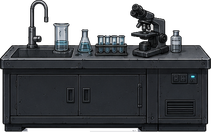
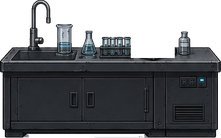
真实性批次二:台面物独立化(电脑/双屏/显微镜)+junk语义minor+爆炸遮挡与场景反馈+审计6条清零
- 对标入侵者2反编译源码(junk_keyboard独立body/maskBits剔玩家/密度摩擦量级表,15条机制入册)
- 台面物erase挖出+独立可推小件:推桌滑翻桌掉中弹飞;湿实验台碰撞顶矫正13px
- minor语义:人穿行/不挡视线扫描锥/不吃贴身推,子弹爆炸照打;泄漏飞瓶复用=根治对子弹隐形,命中即殉爆
- 爆炸:segVsRect遮挡(关门实测全挡)/掀家具41px/breakable折伤/decor抖动/震屏900px距离衰减
- 文件柜可推化并挪更衣室(原位36px全嵌=审计拦下的NaN雷);出生双审计清零

diff --git a/src/systems/Explosives.js b/src/systems/Explosives.js
@@ -5,6 +5,7 @@
 import Phaser from 'phaser'
 import { EventBus } from '../core/EventBus.js'
 import { Sfx } from '../core/Sfx.js'
+import { segVsRect } from './Ballistics.js'
 
 const M = Phaser.Physics.Matter.Matter
 const BOOM_R = 130
@@ -27,6 +28,8 @@ export class Explosives {
     M.Sleeping.set(t._body, false)
     t._hp -= dmg
     if (t._hp <= 0 && t._state === 'idle') this._startLeak(t)
+    // 命中飞行中的泄漏瓶=加速殉爆(打得中它是 minor 语义给的;打中就该马上炸)
+    else if (t._state === 'leak') t._boomAt = Math.min(t._boomAt, this.scene.time.now + 120)
   }
 
   _startLeak(t) {
@@ -35,9 +38,10 @@ export class Explosives {
     t._nozzleSign = Math.random() < 0.5 ? 1 : -1
     t._noz = 0
     t._hitCd = 0
-    // 飞行物阶段:从 solids 摘除(不再是可站/挡路实体)
-    const i = this.scene.solids.indexOf(t)
-    if (i >= 0) this.scene.solids.splice(i, 1)
+    // 飞行物阶段:不再摘除 solids,改打 minor 标(入侵者2 junk 语义)——玩家/敌人可穿行、
+    // 不挡视线,但子弹仍可命中(旧版整条摘除=飞瓶对子弹隐形穿模,审计实锤);
+    // AABB 由 _updatePushables 继续逐帧随刚体同步
+    t.minor = true
     Sfx.laserSnap()
   }
 
@@ -50,8 +54,15 @@ export class Explosives {
     // 旧版借用枪械冷色资源+圆片充数,用户点名"不真实,参考入侵者2"后重做)
     s.fx.explosion(x, y, 1)
     s.fx.debris(x, y, 16)
-    EventBus.emit('camera:shake', 0.045 * (0.85 + Math.random() * 0.3), 170)
+    // 震屏随玩家距离衰减(900px 外不震——隔半张图的爆炸不该同级摇镜头)
+    const fall = Math.max(0, 1 - Math.hypot(s.player.x - x, s.player.y - y) / 900)
+    if (fall > 0.05) EventBus.emit('camera:shake', 0.045 * (0.85 + Math.random() * 0.3) * fall, 170)
     Sfx.explosion()
+    // 爆炸遮挡:实心墙/闸门挡住的目标不吃伤害(审计实锤"隔墙炸人";pushable/oneWay/minor
+    // 不挡冲击波——家具与格栅挡不住爆压,厚实结构才挡)
+    const blocked = (tx, ty) => s.solids.some((o) =>
+      o !== t && !o.oneWay && !o.pushable && !o.minor &&
+      ((tt) => tt !== null && tt > 0.001 && tt < 0.999)(segVsRect(x, y, tx, ty, o)))
     // 伤害:敌人/炮塔(鸭子类型)/玩家;尸块冲击波;邻近气瓶连锁(随机延迟=连环爆的节奏感)
     const targets = s.lockdown ? s.enemies.concat(s.lockdown.turrets) : s.enemies
     for (const e of targets) {
@@ -59,12 +70,13 @@ export class Explosives {
       // 敌人 y=脚底,压到躯干量距;炮塔 pivotY 本身就是中心,不再上抬(否则等效炸塔半径偏小)
       const ex = e.x ?? e.pivotX, ey = e.y != null ? e.y - 40 : e.pivotY
       const d = Math.hypot(ex - x, ey - y)
-      if (d < BOOM_R) e.takeHit(85, { x: (ex - x) / (d || 1), y: -0.4 }, { x: ex, y: ey }, s.turretWeapon)
+      if (d < BOOM_R && !blocked(ex, ey)) e.takeHit(85, { x: (ex - x) / (d || 1), y: -0.4 }, { x: ex, y: ey }, s.turretWeapon)
     }
-    if (s.player.alive && Math.hypot(s.player.x - x, s.player.y - 44 - y) < BOOM_R) s.player.hurt(28, x)
+    if (s.player.alive && Math.hypot(s.player.x - x, s.player.y - 44 - y) < BOOM_R &&
+        !blocked(s.player.x, s.player.y - 44)) s.player.hurt(28, x)
     for (const b of s.gibs.getBodies()) {
       const d = Math.hypot(b.position.x - x, b.position.y - y)
-      if (d < BOOM_R + 40) {
+      if (d < BOOM_R + 40 && !blocked(b.position.x, b.position.y)) {
         s.gibs.wakeRider(b)
         const k = 1 - d / (BOOM_R + 40)
         // 冲击波用力(setVelocity 对初醒刚体无效的坑,见 ArenaScene 可推注释)
@@ -74,10 +86,37 @@ export class Explosives {
         })
       }
     }
+    // 场景反馈(审计实锤"爆炸对场景零反应"):可推家具吃冲击波;可击破物按距离折伤;后带 decor 抖一下
+    for (const p of s._pushables) {
+      if (p === t || !p._body || (p.tank && p._state !== 'idle')) continue
+      const d = Math.hypot(p._body.position.x - x, p._body.position.y - y)
+      if (d < BOOM_R + 40 && !blocked(p._body.position.x, p._body.position.y)) {
+        const k = 1 - d / (BOOM_R + 40)
+        M.Sleeping.set(p._body, false)
+        M.Body.applyForce(p._body, p._body.position, {
+          x: (p._body.position.x - x) / (d || 1) * p._body.mass * 0.024 * k,
+          y: -p._body.mass * 0.012 * k,
+        })
+      }
+    }
+    for (const o of s.solids) {
+      if (!o.breakable) continue
+      const bx = o.x + o.w / 2, by = o.y + o.h / 2
+      const d = Math.hypot(bx - x, by - y)
+      if (d < BOOM_R && !blocked(bx, by)) s.devices.hitBreakable(o.breakable, Math.round(45 * (1 - d / BOOM_R)), { x: bx, y: by })
+    }
+    for (const dec of s._decorSprites ?? []) {
+      if (Math.hypot(dec.x - x, dec.y - y) < BOOM_R + 130) {
+        s.tweens.add({ targets: dec.spr, angle: { from: -1.2, to: 1.2 }, duration: 45,
+          yoyo: true, repeat: 3, onComplete: () => dec.spr.setAngle(0) })
+      }
+    }
     for (const o of this.tanks) {
       if (o !== t && o._state !== 'dead') {
         const d = Math.hypot(o._body.position.x - x, o._body.position.y - y)
-        if (d < BOOM_R) s.time.delayedCall(140 + Math.random() * 220, () => this._explode(o))
+        if (d < BOOM_R && !blocked(o._body.position.x, o._body.position.y)) {
+          s.time.delayedCall(140 + Math.random() * 220, () => this._explode(o))
+        }
       }
     }
     // 罐体炸没:摘贴图/刚体/solid(idle 直接被连锁引爆时 solid 还在)

diff --git a/src/scenes/ArenaScene.js b/src/scenes/ArenaScene.js
@@ -53,8 +53,10 @@ export class ArenaScene extends Phaser.Scene {
     for (const st of L.stairs ?? []) this._buildStairs(st) // 双斜梁开放式钢梯(参考23 套件拼装)
     // 房间装饰件(玻璃隔间墙/储物柜/机柜等"立于后带或贴后墙"的家具,不碰撞):
     // depth<敌人(18)与人物(20),底部接地阴影读出纵深
+    this._decorSprites = [] // 爆炸波及时抖一下(Explosives 用)
     for (const d of L.decor ?? []) {
-      this.add.image(d.x, d.y, d.img).setOrigin(0.5, 1).setDisplaySize(d.w, d.h).setDepth(d.depth ?? 4.35)
+      const spr = this.add.image(d.x, d.y, d.img).setOrigin(0.5, 1).setDisplaySize(d.w, d.h).setDepth(d.depth ?? 4.35)
+      this._decorSprites.push({ spr, x: d.x, y: d.y })
       if (d.shadow !== false) this.add.ellipse(d.x, d.y - 2, d.w * 0.7, 6, 0x04060a, 0.32).setDepth(4.2)
     }
     const vg = this.add.graphics().setDepth(1)
@@ -531,6 +533,7 @@ export class ArenaScene extends Phaser.Scene {
     const x1 = e.x, y1 = e.y - 62
     const x2 = this.player.x, y2 = this.player.y - 62
     for (const s of this.solids) {
+      if (s.minor) continue // junk 小件不挡视线
       const t = segVsRect(x1, y1, x2, y2, s)
       if (t !== null && t > 0.001 && t < 0.999) return false
     }
@@ -570,6 +573,9 @@ export class ArenaScene extends Phaser.Scene {
         p._spr.setPosition(b.position.x - Math.sin(b.angle) * off, b.position.y + Math.cos(b.angle) * off)
         p._spr.setRotation(b.angle)
       }
+      // junk 小件(桌面电脑等)与泄漏飞瓶不吃"贴身走位推"(人可穿行/飞瓶由喷口力独占);
+      // AABB/贴图同步在上面照常跑
+      if (p.minor) continue
       if (!pl.alive || !this.input2.moveX) continue
       const c = pl.capsule
       if (!(c.y < p.y + p.h && c.y + c.h > p.y)) continue

diff --git a/src/entities/Player.js b/src/entities/Player.js
@@ -43,7 +43,7 @@ export class Player {
   _canStand(solids) {
     const c = this.cfg.capsule
     const cap = { x: this.x - c.w / 2, y: this.y - c.h, w: c.w, h: c.h }
-    return !solids.some((s) => !s.oneWay &&
+    return !solids.some((s) => !s.oneWay && !s.minor &&
       cap.x < s.x + s.w && cap.x + cap.w > s.x && cap.y < s.y + s.h && cap.y + cap.h > s.y)
   }
 
@@ -107,12 +107,13 @@ export class Player {
     this.x += this.vx * dt
     for (const s of solids) {
       if (s.oneWay) continue // 单向平台不做水平阻挡
+      if (s.minor) continue // junk 小件(桌面电脑/泄漏飞瓶):人可穿行,子弹/爆炸仍碰(入侵者2 junk 语义)
       if (!this._overlap(s)) continue
       // 台阶助步:着地状态迈上 ≤17px 的矮落差(楼梯=一串矮实体),头顶有净空才上
       if (this.grounded && this.vy >= 0 && this.y - s.y > 0 && this.y - s.y <= 17) {
         const h = this.crouching ? this.cfg.crouch.h : cap.h
         const test = { x: this.x - cap.w / 2, y: s.y - h, w: cap.w, h }
-        const blocked = solids.some((o) => o !== s && !o.oneWay &&
+        const blocked = solids.some((o) => o !== s && !o.oneWay && !o.minor &&
           test.x < o.x + o.w && test.x + test.w > o.x && test.y < o.y + o.h && test.y + test.h > o.y)
         if (!blocked) { this.y = s.y; continue }
       }
@@ -135,6 +136,7 @@ export class Player {
     const prevY = this.y
     this.y += this.vy * dt
     for (const s of solids) {
+      if (s.minor) continue // junk 小件不接落地/不磕头
       if (!this._overlap(s)) continue
       if (this.vy > 0) {
         // 单向平台:只接"本帧从上方落下"的;穿层下落窗口内(dropThroughUntil)全部放行

diff --git a/src/entities/Enemy.js b/src/entities/Enemy.js
@@ -56,6 +56,7 @@ export class Enemy {
     const prevY = this.y
     this.y += this.vy * dt
     for (const s of solids) {
+      if (s.minor) continue // junk 小件不接机器人落地
       const c = this.capsule
       if (c.x < s.x + s.w && c.x + c.w > s.x && c.y < s.y + s.h && c.y + c.h > s.y) {
         // liftRoof 豁免与玩家同款:机器人(胶囊118)比厢顶下沿高,停靠厢的顶棚带扫过头顶
@@ -125,7 +126,7 @@ export class Enemy {
     this.x += this.vx * dt
     // 水平碰撞:实体(掩体箱/墙)不可穿过;巡逻中被挡则折返
     for (const s of solids) {
-      if (s.oneWay) continue
+      if (s.oneWay || s.minor) continue // junk 小件不挡机器人走位
       const c = this.capsule
       if (c.x < s.x + s.w && c.x + c.w > s.x && c.y < s.y + s.h && c.y + c.h > s.y) {
         if (this.vx > 0) this.x = s.x - c.w / 2

diff --git a/src/scenes/BootScene.js b/src/scenes/BootScene.js
@@ -21,6 +21,7 @@ const IMAGES = [
   'prop_tank_a', 'prop_tank_b', 'prop_tank_s',
   'bg_lab_window', 'bg_cryo_wall', 'prop_wetbench', 'prop_cryocab', 'prop_labcart', 'prop_shower', 'prop_biobin',
   'bg_monitor_wall', 'prop_secdesk', 'bg_gunrack', 'prop_armorycab', 'prop_ammochest', 'bg_alarm',
+  'prop_monitor', 'prop_screen_a', 'prop_screen_b', 'prop_scope',
 ]
 
 export class BootScene extends Phaser.Scene {

diff --git a/src/entities/Turret.js b/src/entities/Turret.js
@@ -79,6 +79,7 @@ export class Turret {
     const x2 = this.pivotX + dx * range, y2 = this.pivotY + dy * range
     let end = 1
     for (const s of solids) {
+      if (s.minor) continue // junk 小件不截扫描锥(桌面电脑挡不住探测光)
       const t = segVsRect(x1, y1, x2, y2, s)
       if (t !== null && t < end) end = t
     }

diff --git a/docs/素材许可.md b/docs/素材许可.md
@@ -25,11 +25,11 @@
 | **井口暗门套图 v1(现役)** | docs/风格参考/参考22-井口暗门套图v1.png(1122×1402,浅灰底) | 用户本人 ChatGPT 账号,由 Claude 代为输入 prompt 生成(井口门框总成·框环+左右收纳滑轨+井内壁近亮远暗 / 厚滑板·防滑顶面+前立面侧棱+警示带,微俯视与走道同投影) | 用户账号生成的 AI 内容;切件坐标留档 tools/cut-devices.mjs | 无 | 切件为 dev_hatch_pit/dev_hatch_bed(rotate90)/dev_hatch_plate(R1 暗门真机械重做:井坑+滑轨槽床+双滑板平移开合) | 2026-07-16 |
 | **钢楼梯套件 v1(现役)** | docs/风格参考/参考23-钢楼梯套件v1.png(1122×1402,浅灰底) | 用户本人 ChatGPT 账号,由 Claude 代为输入 prompt 生成(双斜梁开放式钢梯模块:格栅踏步单元/槽钢斜梁段(母本自带15.6°倾角,切件转平)/管夹扶手立柱/锚固板) | 用户账号生成的 AI 内容;切件坐标留档 tools/cut-devices.mjs | 无 | 切件为 dev_stair_tread/dev_stair_beam(rotate-15.6+insetX)/dev_stair_post/dev_stair_anchor(真实钢梯重做:薄踏板碰撞+斜梁平铺+扶手后带) | 2026-07-16 |
 | **暗门地下结构套图 v1(现役)** | docs/风格参考/参考24-暗门地下结构v1.png(1122×1402,浅灰底) | 用户本人 ChatGPT 账号,由 Claude 代为输入 prompt 生成(收纳舱检修盖板·微俯视 / 走道剖面半幅·甲板切断面+剖开收纳舱空腔+支撑斜撑 / 滑板侧面断面条) | 用户账号生成的 AI 内容;切件坐标留档 tools/cut-devices.mjs | 无 | 切件为 dev_hatch_lid/dev_hatch_xsec/dev_hatch_sub/dev_hatch_slab(暗门v4:地下收纳结构可见化,滑板断面在剖面带内同步滑进舱内) | 2026-07-16 |
-| **B1行政层家具套图 v1(现役)** | docs/风格参考/参考25-B1行政层家具v1.png(1122×1402,浅灰底) | 用户本人 ChatGPT 账号,由 Claude 代为输入 prompt 生成(玻璃隔间墙/办公桌+电脑/文件柜/翻倒椅/检疫柜台/闸机/储物柜排/长凳) | 用户账号生成的 AI 内容;切件坐标留档 tools/cut-devices.mjs | 无 | 切件8件(bg_office_glass/prop_desk/prop_filecab/prop_chair_fallen/prop_counter/prop_gate_turn/prop_lockers/prop_bench):B1 房间批次+R2 可推件 | 2026-07-16 |
+| **B1行政层家具套图 v1(现役)** | docs/风格参考/参考25-B1行政层家具v1.png(1122×1402,浅灰底) | 用户本人 ChatGPT 账号,由 Claude 代为输入 prompt 生成(玻璃隔间墙/办公桌+电脑/文件柜/翻倒椅/检疫柜台/闸机/储物柜排/长凳) | 用户账号生成的 AI 内容;切件坐标留档 tools/cut-devices.mjs | 无 | 切件9件(bg_office_glass/prop_desk/prop_monitor[台面电脑独立件]/prop_filecab/prop_chair_fallen/prop_counter/prop_gate_turn/prop_lockers/prop_bench):B1 房间批次+R2 可推件 | 2026-07-16 |
 | **B4核心舱家具套图 v1(现役)** | docs/风格参考/参考26-B4核心舱家具v1.png(1122×1402,浅灰底) | 同上(服务器机柜×2/线缆桥架/维修工作台/零件货架/吊装轨道吊钩) | 用户账号生成的 AI 内容;切件坐标留档 tools/cut-devices.mjs | 无 | 切件6件(prop_rack/prop_rack_open/bg_cable_tray/prop_workbench/prop_shelf/bg_hoist):B4 机房+维修间 | 2026-07-16 |
 | **可爆气瓶套图 v1(现役)** | docs/风格参考/参考27-可爆气瓶v1.png(1122×1402,浅灰底) | 用户本人 ChatGPT 账号,由 Claude 代为输入 prompt 生成(高压气瓶A锈红/B灰绿/小丙烷罐) | 用户账号生成的 AI 内容;切件坐标留档 tools/cut-devices.mjs | 无 | 切件 prop_tank_a/b/s(R2 可爆物:打漏喷焰乱窜→爆炸→连锁殉爆) | 2026-07-17 |
-| **B2实验层家具套图 v1(现役)** | docs/风格参考/参考28-B2实验层家具v1.png(1024×1536,浅灰底) | 用户本人 ChatGPT 账号,由 Claude 代为输入 prompt 生成(玻璃观察窗墙/低温冷柜墙带空格叙事/湿实验台/立式样本冷藏柜/打翻实验推车/应急冲淋站/生物废料桶) | 用户账号生成的 AI 内容;切件坐标留档 tools/cut-devices.mjs | 无 | 切件7件(bg_lab_window/bg_cryo_wall/prop_wetbench/prop_cryocab/prop_labcart/prop_shower/prop_biobin):B2 房间批次二 | 2026-07-22 |
-| **B3安防层家具套图 v1(现役)** | docs/风格参考/参考29-B3安防层家具v1.png(1024×1536,浅灰底) | 同上(监控多屏墙/监控操作台/军械枪架墙/重型军械柜/大型弹药储运箱/旋转警报灯) | 用户账号生成的 AI 内容;切件坐标留档 tools/cut-devices.mjs | 无 | 切件6件(bg_monitor_wall/prop_secdesk/bg_gunrack/prop_armorycab/prop_ammochest/bg_alarm):B3 房间批次二 | 2026-07-22 |
+| **B2实验层家具套图 v1(现役)** | docs/风格参考/参考28-B2实验层家具v1.png(1024×1536,浅灰底) | 用户本人 ChatGPT 账号,由 Claude 代为输入 prompt 生成(玻璃观察窗墙/低温冷柜墙带空格叙事/湿实验台/立式样本冷藏柜/打翻实验推车/应急冲淋站/生物废料桶) | 用户账号生成的 AI 内容;切件坐标留档 tools/cut-devices.mjs | 无 | 切件8件(bg_lab_window/bg_cryo_wall/prop_wetbench/prop_scope[显微镜独立件]/prop_cryocab/prop_labcart/prop_shower/prop_biobin):B2 房间批次二 | 2026-07-22 |
+| **B3安防层家具套图 v1(现役)** | docs/风格参考/参考29-B3安防层家具v1.png(1024×1536,浅灰底) | 同上(监控多屏墙/监控操作台/军械枪架墙/重型军械柜/大型弹药储运箱/旋转警报灯) | 用户账号生成的 AI 内容;切件坐标留档 tools/cut-devices.mjs | 无 | 切件8件(bg_monitor_wall/prop_secdesk/prop_screen_a/prop_screen_b[台面双屏独立件]/bg_gunrack/prop_armorycab/prop_ammochest/bg_alarm):B3 房间批次二 | 2026-07-22 |
 
 > AI 生成素材说明:全部由文本 prompt 生成(pollinations.ai 或用户本人 ChatGPT 账号),未使用任何现有游戏素材作为图像输入;生成来源、切件多边形坐标均在 git 历史与 tools/cut-*.mjs(player/props/devices 三脚本)中留档,作为原创性证据链。
 > 母本v2 注意事项:原图顶部含 AI 生成的"toddlerwipes"字样与红条图形(风格模仿产物),**切件多边形完全避开该区域,任何水印像素不进入游戏**;该图为风格致敬性的 AI 原创生成,非对任何现有游戏素材的拷贝。

diff --git a/docs/开发日志.md b/docs/开发日志.md
@@ -2,6 +2,13 @@
 
 > 倒序:最新的在上面。每次工作会话记一条:做了什么、验证结果、遗留问题。
 
+## 2026-07-23 · 真实性批次二(用户点名"电脑不该粘在桌上,参考入侵者代码,全面自审")
+- **入侵者2 反编译研究(15 条机制,一手源码证据)**:"魔改Box2D"实为相机驱动的 FreezeBody 剔除层(全物理世界能跑的真相);桌上键盘 junk_keyboard=独立 body(density0.7)与桌子零挂接——直接原型;junk 小件 maskBits-=COLLIDE_PLAYER(人穿行/子弹爆炸照打);单 Spawner+按名 switch 物理注册表;道具 density/friction 量级表;运动机构=运动学代理体 SetXForm(印证我们混合范式);升降台下行双倍质量+CCD;受击在真实接触点施力;绳=两端真体+中间 Verlet。全文入 workflow 产物,精华入 skill C2。
+- **台面物独立化**:办公桌电脑/监控台双屏/实验台显微镜从家具贴图 erase 挖出,切成独立 pushable+minor 小件摆在台面——推桌滑、翻桌掉、中弹飞(实测:三发步枪把显示器打下桌翻滚 109° 侧躺;泵帧走路从地上显示器直接穿行且不带动它)。湿实验台碰撞顶顺带矫正 13px 到画面台面线(切件比例历史误差)。
+- **junk 语义(minor:true)落地**:玩家/敌人穿行、不挡 LOS/扫描锥、不吃贴身推;子弹命中/爆炸掀飞照常——并用它根治审计高危"泄漏飞瓶对子弹隐形"(leak 不再摘 solids 改打 minor;命中飞瓶=120ms 内殉爆,实测第 2 帧命中即爆)。
+- **审计确认 6 条全落地**(两票 opus 复核,另 8 条正确否决):①文件柜可推化(挪更衣室 3830——原位与掩体箱 36px 全嵌,一变可推就是 NaN 雷,审计当场拦下)②飞瓶隐形(上)③爆炸隔墙伤人→伤害/连锁全过 segVsRect 遮挡(实测关门 gate 完全挡住 82px 爆炸;门洞正常透过=特性)④爆炸对场景零反应→可推家具吃冲击波(实测弹药箱被掀 41px)+breakable 折伤+decor 抖动⑤泄漏瓶被玩家推力二次施力→minor 豁免统一解决⑥震屏无距离衰减→900px 线性衰减。
+- 验收:穿行/遮挡/飞瓶命中/家具掀飞/出生双审计清零/console 零错。爆炸观感与桌面物手感待用户实机拍板。
+
 ## 2026-07-23 · 用户反馈批四条:爆炸重做/电梯误伤/载尸穿楼/操作台后带化
 - **煤气罐爆炸重做(点名"差劲不真实,参考入侵者")**:调查确认旧配方 4 图元里 3 个借用枪械/断肢的冷色电感资源、火球=被明令禁止的圆片充数、烟/冲击波/熏黑三层空缺(pb2 资源库 shockwave_tex 佐证冲击波环是入侵者2 标志层)。新配方九层:暖白核闪/环形火球羽流(3 变体,中央火体+瓣重叠熔合,alpha Quad.In 保亮)/撕裂冲击波双环(destination-out 缺口)/错峰烟团(NORMAL 中灰)/暖色火星雨(专属 emberEmitter,gravityY1400)/碎片16/地面熏黑贴花(FIFO24)/震屏0.045×170ms/Sfx.explosion 四层音。**坑**:translate 后渐变锚偏=瓣全透明;离散瓣像花必须火体打底;深灰烟在暗场隐形;sleep/wake 污染补间时钟=冻帧相位假象。muted 仍开着,爆炸音效要试听得开声音。观感待用户实机拍板。
 - **电梯下行莫名受击**:乘客先随厢位移,砸判拿旧厢底比新玩家位=下行第一帧恒误砸(hurt12)。修=预存 riding 布尔豁免砸判+压判(压判净高裕量仅4.7px,防吸附抖动 9999 秒杀)。实测:乘梯上下行零 hurt;站厢外被扫=1次砸+落定进厢定版保留。

diff --git a/.claude/skills/level-devices-pipeline/SKILL.md b/.claude/skills/level-devices-pipeline/SKILL.md
@@ -32,6 +32,13 @@ description: 关卡系统与装置的权威手册(移动平台/闸门/交互/检
 - **玩家给的操作规则要逐字执行**:穿层下落定版=蹲态+**仍按住 S**+脚下 oneWay+**按 W**=穿层落下站立;松开 S 后按 W=原地起身跳;平地 S+W=蹲下起身跳。自作主张简化成"按住 S 即下落"返工过一轮。
 - 跳跃 jumpVel 784【定版,+50%】满跳 159px。
 
+## C2. junk 小件语义(minor:true,2026-07-23 定版,对标入侵者2 junk_* 的 maskBits-=COLLIDE_PLAYER)
+
+- **solids 条目 `minor:true` = 桌面小物/飞行物级别的"junk 类"**:玩家/敌人**穿行**(X/Y/助步净空/起身净空全豁免)、**不挡** LOS/炮塔扫描锥、**不吃**贴身走位推;但**子弹可命中**(吃可推冲量)、**爆炸可掀**、Matter 体与世界正常互撞。当前:桌面电脑/监控双屏/显微镜(台面物独立件)+**泄漏乱窜的气瓶**(_startLeak 不再摘 solids,改打 minor——旧"整条摘除"=飞瓶对子弹隐形穿模;命中飞瓶=殉爆提前到 120ms)。
+- **台面物独立化管线**:母本图 erase 挖掉台面物(渐变与椭圆同用绝对坐标,translate 后渐变锚偏=瓣全透明的坑同款要防)→ 台面物单独切件 → level 摆在家具顶面正上方(y 相接不重叠,严格不等式审计天然放行)→ pushable+minor。推桌它滑、翻桌它掉、中弹它飞——In2 的 junk_keyboard(独立 body,density0.7)是直接原型。
+- **In2 道具物理量级锚点(反编译实测)**:轻塑料/杂物 density 0.3-0.7,常规木/金属 1-2,笨重金属 2-3;摩擦 0.5 默认/0.75 金属/0.8-0.9 木石;restitution 只给明确要弹的件,其余 0。
+- **爆炸口径(与弹道/视线看齐)**:伤害与连锁全部过 segVsRect 遮挡(实心墙/闸门挡,pushable/oneWay/minor 不挡=门洞与格栅透爆压是特性);可推家具吃冲击波、breakable 按距离折伤、decor 抖 45ms×3、震屏随玩家距离 900px 线性衰减。
+
 ## D. 激光栅栏 / 可击破物 / 联动
 
 - 激光:上(dev_laser_down 吊装)下(dev_laser_up 立地)发射柱间竖直光束;onMs/offMs/phase 周期;**亮起前 280ms 预热微光=公平预告**;光束三层辉光(宽晕+亮核+白热芯,ADD)带闪烁;只打玩家(机器人敌我识别,巡逻穿束合理);触束伤害的击退按行进反向定向(束心 sign(0)=0 不弹的边缘情况)。
